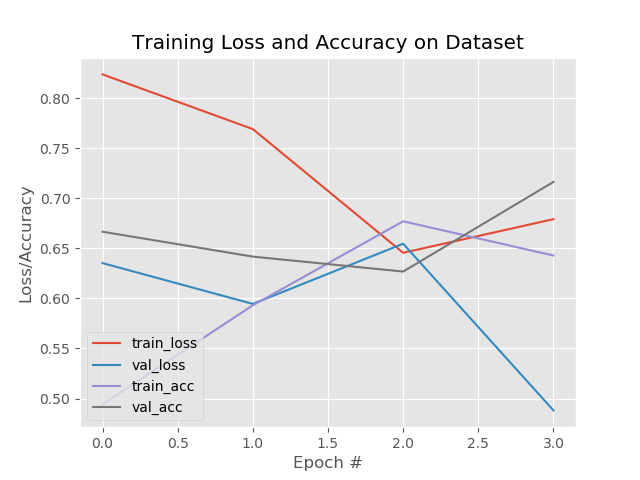
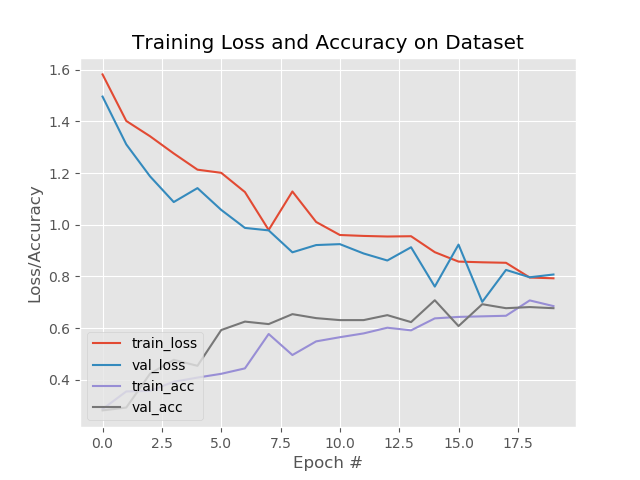
Added project

diff --git a/webScript.js b/webScript.js
@@ -1,0 +1,41 @@
+
+function readTextFile(file, callback) {
+    var rawFile = new XMLHttpRequest();
+    rawFile.overrideMimeType("application/json");
+    rawFile.open("GET", file, true);
+    rawFile.onreadystatechange = function() {
+        if (rawFile.readyState === 4 && rawFile.status == "200") {
+            callback(rawFile.responseText);
+        }
+    }
+    rawFile.send(null);
+}
+
+readTextFile("C:\Users\Carlos\Desktop\github\Udyat\data.json", function(text){
+    var data = JSON.parse(text);
+	console.log(data);
+});
+var info = data;
+//Situation of the event detected
+var label;
+
+//Date of the event
+var date;
+
+//Location of the event
+var location;
+
+//path of the video-event
+var videoPath;
+
+$(document).ready(function(){
+	label = document.getElementById("label");
+	//location = document.getElementById("location-text");
+	//date = document.getElementById("time-text");
+
+	label.innerHTML = "2";
+
+
+	
+	//date.innerHTML = newData[0].date;
+})

diff --git a/train.py b/train.py
@@ -1,0 +1,176 @@
+# USAGE
+# python train.py --dataset Sports-Type-Classifier/data --model model/activity.model --label-bin model/lb.pickle --epochs 50
+
+# set the matplotlib backend so figures can be saved in the background
+import matplotlib
+matplotlib.use("Agg")
+
+# import the necessary packages
+from keras.preprocessing.image import ImageDataGenerator
+from keras.layers.pooling import AveragePooling2D
+from keras.applications import ResNet50
+from keras.layers.core import Dropout
+from keras.layers.core import Flatten
+from keras.layers.core import Dense
+from keras.layers import Input
+from keras.models import Model
+from keras.optimizers import SGD
+from sklearn.preprocessing import LabelBinarizer
+from sklearn.model_selection import train_test_split
+from sklearn.metrics import classification_report
+from imutils import paths
+import matplotlib.pyplot as plt
+import numpy as np
+import argparse
+import pickle
+import cv2
+import os
+
+# construct the argument parser and parse the arguments
+ap = argparse.ArgumentParser()
+ap.add_argument("-d", "--dataset", required=True,
+	help="path to input dataset")
+ap.add_argument("-m", "--model", required=True,
+	help="path to output serialized model")
+ap.add_argument("-l", "--label-bin", required=True,
+	help="path to output label binarizer")
+ap.add_argument("-e", "--epochs", type=int, default=25,
+	help="# of epochs to train our network for")
+ap.add_argument("-p", "--plot", type=str, default="plot.png",
+	help="path to output loss/accuracy plot")
+args = vars(ap.parse_args())
+
+# initialize the set of labels from the spots activity dataset we are
+# going to train our network on
+LABELS = set(["Fighting", "assault","Walking", "SH"])
+
+# grab the list of images in our dataset directory, then initialize
+# the list of data (i.e., images) and class images
+print("[INFO] loading images...")
+imagePaths = list(paths.list_images(args["dataset"]))
+data = []
+labels = []
+
+# loop over the image paths
+for imagePath in imagePaths:
+	# extract the class label from the filename
+	label = imagePath.split(os.path.sep)[-2]
+
+	# if the label of the current image is not part of of the labels
+	# are interested in, then ignore the image
+	if label not in LABELS:
+		continue
+
+	# load the image, convert it to RGB channel ordering, and resize
+	# it to be a fixed 224x224 pixels, ignoring aspect ratio
+	image = cv2.imread(imagePath)
+	image = cv2.cvtColor(image, cv2.COLOR_BGR2RGB)
+	image = cv2.resize(image, (224, 224))
+
+	# update the data and labels lists, respectively
+	data.append(image)
+	labels.append(label)
+
+# convert the data and labels to NumPy arrays
+data = np.array(data)
+labels = np.array(labels)
+
+# perform one-hot encoding on the labels
+lb = LabelBinarizer()
+labels = lb.fit_transform(labels)
+
+# partition the data into training and testing splits using 75% of
+# the data for training and the remaining 25% for testing
+(trainX, testX, trainY, testY) = train_test_split(data, labels,
+	test_size=0.25, stratify=labels, random_state=42)
+
+# initialize the training data augmentation object
+trainAug = ImageDataGenerator(
+	rotation_range=30,
+	zoom_range=0.15,
+	width_shift_range=0.2,
+	height_shift_range=0.2,
+	shear_range=0.15,
+	horizontal_flip=True,
+	fill_mode="nearest")
+
+# initialize the validation/testing data augmentation object (which
+# we'll be adding mean subtraction to)
+valAug = ImageDataGenerator()
+
+# define the ImageNet mean subtraction (in RGB order) and set the
+# the mean subtraction value for each of the data augmentation
+# objects
+mean = np.array([123.68, 116.779, 103.939], dtype="float32")
+trainAug.mean = mean
+valAug.mean = mean
+
+# load the ResNet-50 network, ensuring the head FC layer sets are left
+# off
+baseModel = ResNet50(weights="imagenet", include_top=False,
+	input_tensor=Input(shape=(224, 224, 3)))
+
+# construct the head of the model that will be placed on top of the
+# the base model
+headModel = baseModel.output
+headModel = AveragePooling2D(pool_size=(7, 7))(headModel)
+headModel = Flatten(name="flatten")(headModel)
+headModel = Dense(512, activation="relu")(headModel)
+headModel = Dropout(0.5)(headModel)
+headModel = Dense(len(lb.classes_), activation="softmax")(headModel)
+
+# place the head FC model on top of the base model (this will become
+# the actual model we will train)
+model = Model(inputs=baseModel.input, outputs=headModel)
+
+# loop over all layers in the base model and freeze them so they will
+# *not* be updated during the training process
+for layer in baseModel.layers:
+	layer.trainable = False
+
+# compile our model (this needs to be done after our setting our
+# layers to being non-trainable)
+print("[INFO] compiling model...")
+opt = SGD(lr=1e-4, momentum=0.9, decay=1e-4 / args["epochs"])
+model.compile(loss="categorical_crossentropy", optimizer=opt,
+	metrics=["accuracy"])
+
+# train the head of the network for a few epochs (all other layers
+# are frozen) -- this will allow the new FC layers to start to become
+# initialized with actual "learned" values versus pure random
+print("[INFO] training head...")
+H = model.fit_generator(
+	trainAug.flow(trainX, trainY, batch_size=32),
+	steps_per_epoch=len(trainX) // 32,
+	validation_data=valAug.flow(testX, testY),
+	validation_steps=len(testX) // 32,
+	epochs=args["epochs"])
+
+# evaluate the network
+print("[INFO] evaluating network...")
+predictions = model.predict(testX, batch_size=32)
+print(classification_report(testY.argmax(axis=1),
+	predictions.argmax(axis=1), target_names=lb.classes_))
+
+# plot the training loss and accuracy
+N = args["epochs"]
+plt.style.use("ggplot")
+plt.figure()
+plt.plot(np.arange(0, N), H.history["loss"], label="train_loss")
+plt.plot(np.arange(0, N), H.history["val_loss"], label="val_loss")
+plt.plot(np.arange(0, N), H.history["acc"], label="train_acc")
+plt.plot(np.arange(0, N), H.history["val_acc"], label="val_acc")
+plt.title("Training Loss and Accuracy on Dataset")
+plt.xlabel("Epoch #")
+plt.ylabel("Loss/Accuracy")
+plt.legend(loc="lower left")
+plt.savefig(args["plot"])
+
+# serialize the model to disk
+print("[INFO] serializing network...")
+model.save(args["model"])
+
+# serialize the label binarizer to disk
+f = open(args["label_bin"], "wb")
+f.write(pickle.dumps(lb))
+f.close()

diff --git a/predict_video.py b/predict_video.py
@@ -1,0 +1,129 @@
+# USAGE
+# python predict_video.py --model model/activity.model --label-bin model/lb.pickle --input example_clips/lifting.mp4 --output output/lifting_128avg.avi --size 128
+
+# import the necessary packages
+from keras.models import load_model
+from collections import deque
+import numpy as np
+import argparse
+import pickle
+import cv2
+import json
+
+import random
+import time
+
+# construct the argument parser and parse the arguments
+ap = argparse.ArgumentParser()
+ap.add_argument("-m", "--model", required=True,
+	help="path to trained serialized model")
+ap.add_argument("-l", "--label-bin", required=True,
+	help="path to  label binarizer")
+ap.add_argument("-i", "--input", required=True,
+	help="path to our input video")
+ap.add_argument("-o", "--output", required=True,
+	help="path to our output video")
+ap.add_argument("-s", "--size", type=int, default=128,
+	help="size of queue for averaging")
+args = vars(ap.parse_args())
+
+# load the trained model and label binarizer from disk
+print("[INFO] loading model and label binarizer...")
+model = load_model(args["model"])
+lb = pickle.loads(open(args["label_bin"], "rb").read())
+
+# initialize the image mean for mean subtraction along with the
+# predictions queue
+mean = np.array([123.68, 116.779, 103.939][::1], dtype="float32")
+Q = deque(maxlen=args["size"])
+
+# initialize the video stream, pointer to output video file, and
+# frame dimensions
+vs = cv2.VideoCapture(args["input"])
+writer = None
+(W, H) = (None, None)
+
+# loop over frames from the video file stream
+while True:
+	# read the next frame from the file
+	(grabbed, frame) = vs.read()
+
+	# if the frame was not grabbed, then we have reached the end
+	# of the stream
+	if not grabbed:
+		break
+
+	# if the frame dimensions are empty, grab them
+	if W is None or H is None:
+		(H, W) = frame.shape[:2]
+
+	# clone the output frame, then convert it from BGR to RGB
+	# ordering, resize the frame to a fixed 224x224, and then
+	# perform mean subtraction
+	output = frame.copy()
+	frame = cv2.cvtColor(frame, cv2.COLOR_BGR2RGB)
+	frame = cv2.resize(frame, (224, 224)).astype("float32")
+	frame -= mean
+
+	# make predictions on the frame and then update the predictions
+	# queue
+	preds = model.predict(np.expand_dims(frame, axis=0))[0]
+	Q.append(preds)
+
+	# json start creating
+	
+	data = {}
+	data['case'] = []
+	# perform prediction averaging over the current history of
+	# previous predictions
+	results = np.array(Q).mean(axis=0)
+	i = np.argmax(results)
+	label = lb.classes_[i]
+	if label == "Walking" :
+		label = 'Neutral'
+	
+	# draw the activity on the output frame
+	text = "activity: {}".format(label)
+	rand = random.randint(0,1000)
+	T = time.ctime(time.time())
+	cv2.putText(output, text, (5, 50), cv2.FONT_HERSHEY_SIMPLEX,
+		1.25, (0, 200, 0), 4)
+	data['case'].append({
+		'caseN' : rand,
+		'Local Time': T,
+		'Activity': label,
+		'From': 'Centro Estudianl'
+		
+		})
+
+	with open('data.json','w') as outfile:
+		json.dump(data,outfile)
+
+	with open("data.json", "r+") as f:
+		old = f.read() # read everything in the file
+		f.seek(0)
+		f.write("var newData = [" + old + " ];") 
+	 
+	 # write the new line before
+	# check if the video writer is None
+	if writer is None:
+		# initialize our video writer
+		fourcc = cv2.VideoWriter_fourcc(*"DIVX")
+		writer = cv2.VideoWriter(args["output"], fourcc, 30,
+			(W, H), True)
+
+	# write the output frame to disk
+	writer.write(output)
+
+	# show the output image
+	cv2.imshow("Output", output)
+	key = cv2.waitKey(1) & 0xFF
+
+	# if the `q` key was pressed, break from the loop
+	if key == ord("q"):
+		break
+
+# release the file pointers
+print("[INFO] cleaning up...")
+writer.release()
+vs.release()

diff --git a/index.py b/index.py
@@ -1,0 +1,17 @@
+
+import os
+import json
+import argparse
+
+ap = argparse.ArgumentParser()
+ap.add_argument("-p", "--PATH", required=True,
+	help="path to Example Videos")
+args = vars(ap.parse_args())
+
+
+os.system("python predict_video.py -m model/model.h5 -l model/bin.pickle -i " + args["PATH"] + " -o output/output.divx -s 128")
+
+
+
+        
+

diff --git a/README.md b/README.md
@@ -1,2 +1,29 @@
 # Udyat
-Convotutional Neural Network to make action recognition
+Convotutional Neural Network to make action recognition and stop crime, also the data is save or store in a json for future implementations
+
+
+
+
+In the root of the project
+
+python index.py -p "path to the video"
+
+To start the video analyzer
+
+example videos paths:
+
+"example_clips/lifting.mp4"
+
+"example_clips/Robbery033.mp4"
+
+"example_clips/Robbery137.mp4"
+
+"example_clips/Robbery142.mp4"
+
+"example_clips/soccer.mp4"
+
+"example_clips/boxing.mp4"
+
+to select specific video clips change the -i flag
+or use 
+python predict_video.py -m "model/model.h5" -l "model/bin.pickle" -i "example_clips/lifting.mp4" -o "output/output.mp4" -s 128
